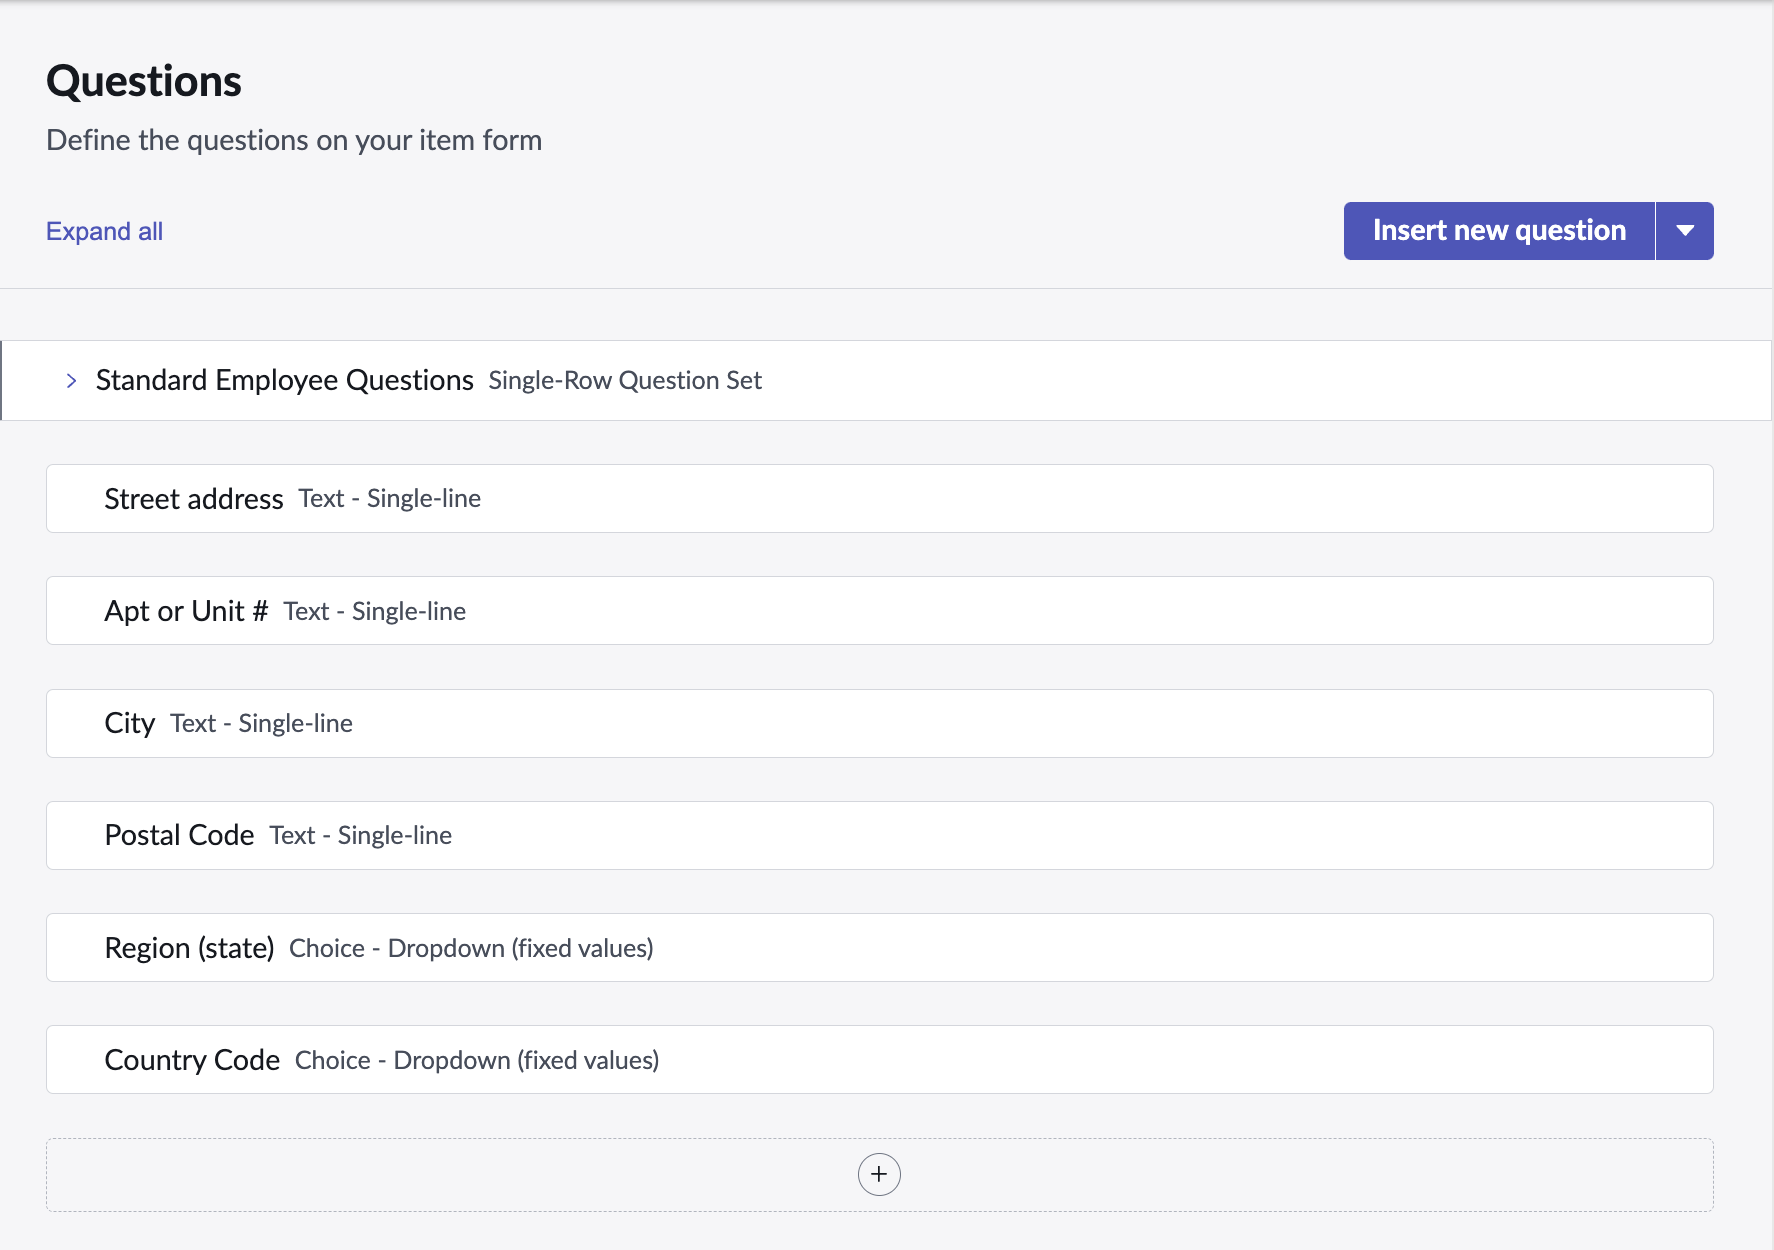
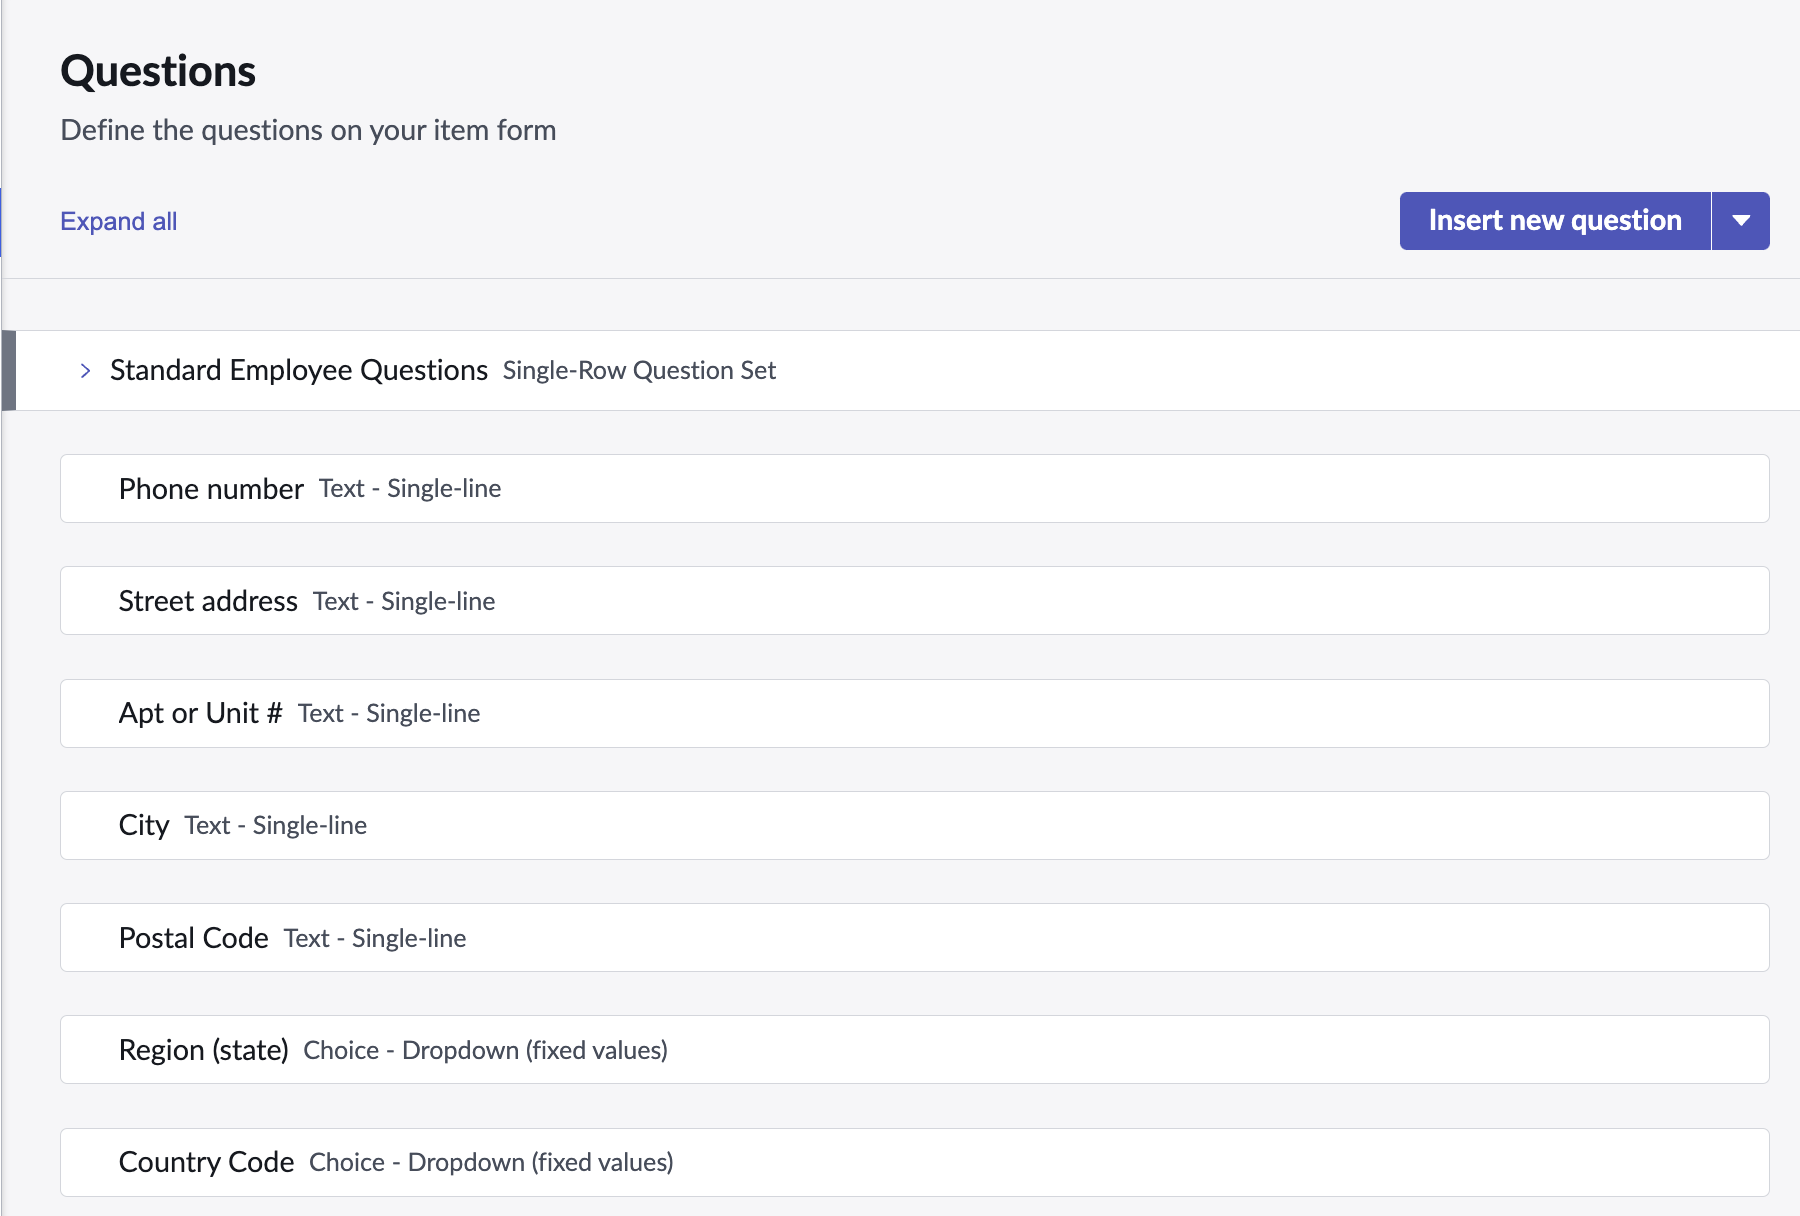
Finalized guide

diff --git a/docs/docs/flow.md b/docs/docs/flow.md
@@ -1,0 +1,201 @@
+---
+sidebar_position: 7
+---
+
+# Create a custom flow
+
+In this step we will configure a custom flow that will be triggered by the custom catalog item and use the custom action that we just developed to create a YubiKey shipment.
+
+## Flow properties
+
+On the ServiceNow home screen, search for **flow designer**. Click **Flow Designer**, a new window should open.
+
+![Configuration menu](/img/actions_1.png)
+
+Once the **Flow Designer** page opens, click the **Create new** button, then select **Flow**.
+
+![Configuration menu](/img/flow_1.png)
+
+A menu will appear to configure the action's properties. Use the following values to initialize your action.
+
+- Flow name: YubiEnterprise create shipment
+- Description: Create a new YubiKey shipment order
+- Application: YubiEnterprise Delivery App
+- Use the defaults for the remaining properties
+
+![Flow properties](/img/flow_2.png)
+
+Click **Submit**.
+
+## Add flow trigger
+
+Next, we're going to add a trigger. This will be the mechanism that will be used to trigger the flow. In our case, the trigger will be the custom catalog item that we built earlier.
+
+First, click the **+ Add a trigger** button.
+
+![Add a trigger button](/img/flow_3.png)
+
+A menu should appear to search for a trigger. Search for **service catalog** and select **Service Catalog**. This option can also be found in the **Application** category.
+
+![Service catalog trigger option](/img/flow_4.png)
+
+Once selected, press **Done**.
+
+## Add the form variables
+
+Next we will ingest the custom form values that we created when the catalog item was created.
+
+First click the **+ Add an Action, Flow Logic, or Subflow** button.
+
+Next click **Action**. When the menu appears, search for **get catalog variables**, and select **Get Catalog Variables**.
+
+![get catalog variables](/img/flow_5.png)
+
+Once the new meenu appears, drag the **Request Item Record** data pill from the **Data** table on the right into the **Submitted Request**.
+
+For the **Template** input, search for **yubikey** and select **YubiKey** (this will refer to the custom catalog item template that we previously created).
+
+Use the right facing arrow to move the following fields to the column on the right
+
+- phone_number
+- street address
+- apt_or_unit
+- city
+- postal_code
+- region_state
+- country_code
+- yubikey_model
+
+Your form variables menu should look like the example below.
+
+![final get catalog variables](/img/flow_6.png)
+
+Once ready, press **Done**.
+
+## Add the action
+
+Next we're going to make a call to the action that we configured earlier.
+
+First click the **+ Add an Action, Flow Logic, or Subflow** button.
+
+Next click **Action**. When the menu appears, search for **yubienterprise create shipment**, and select **YubiEnterprise create shipment**.
+
+![add action](/img/flow_7.png)
+
+Next we're going to map information about the user and data collected from the catalog item to the action inputs. For each input, you will add a data pill from the **Data** table on the right to the correlated action input.
+
+Use the table below to correlate the correct data pill, or hardcoded input to a label.
+
+| Label                     | Section > Data pill or default value                         |
+| ------------------------- | ------------------------------------------------------------ |
+| Delivery Type             | 1                                                            |
+| Country Code 2            | Get Catalog Variable > country_code                          |
+| Recipient                 | Trigger > Requested Item Record > Requested for > Name       |
+| Recipient Email           | Trigger > Requested Item Record > Requested for > Email      |
+| Recipient Firstname       | Trigger > Requested Item Record > Requested for > First Name |
+| Recipient Lastname        | Trigger > Requested Item Record > Requested for > Last Name  |
+| Recipient Telephone       | Get Catalog Variable > phone_number                          |
+| Street Line 1             | Get Catalog Variable > street_address                        |
+| Street Line 2             | Get Catalog Variable > apt_or_unit                           |
+| Street Line 3             |                                                              |
+| City                      | Get Catalog Variable > city                                  |
+| Region                    | Get Catalog Variable > region_state                          |
+| Postal Code               | Get Catalog Variable > postal_code                           |
+| Product ID                | Get Catalog Variable > yubikey_model                         |
+| Inventory Product ID      | [Your subscription or perpetual order ID*]                   |
+| Shipment Product Quantity | Trigger > Requested Item Record > Quantity                   |
+
+\*The inventory ID will vary based on your YubiEnterprise order. Please consult [this list](https://console.yubico.com/help/api-req.html#id5) to determine which inventory product ID is most relevant to your organization.
+
+Your action input mappings menu should look like the example below.
+
+![add action final](/img/flow_8.png)
+
+Click **Done**
+
+## Activate the flow
+
+Next we're going to activate the flow, and get our custom catalog item to trigger it when a new request is made.
+
+First, click the **Save** button at the top of the screen. Once the flow is done saving click **Activate**.
+
+![save and activate](/img/flow_9.png)
+
+Next, return to the main ServiceNow menu, and navigate back to the **Catalog Builder**.
+
+![Catalog menu item](/img/catalog_1.png)
+
+Open your **YubiKey** catalog item, either through the **Recently updated items** menu, or the **Catalog items** tab at the top of the page.
+
+![Edit item](/img/flow_10.png)
+
+A menu may appear showing information about your catalog item. Click the **Edit catalog item** button.
+
+![Edit ite menu](/img/flow_11.png)
+
+Using the navigation menu on the left, click on **Fulfillment**.
+
+Once in the **Fulfillment** tab, we're going to change the **Selected flow** value to **YubiEnterprise create shipment**.
+
+![Change fulfillment](/img/flow_12.png)
+
+Click **Save**.
+
+Once the change has been saved, click **Continue to Review and Submit**. When ready, click **Submit**.
+
+A menu indicating that the save was successful will appear. Click **Return to dashboard**, or simply return to the main **ServiceNow** menu.
+
+## Test the flow
+
+Now that we have everything configured, let's attempt to create a shipment using our catalog item.
+
+Return to the main ServiceNow menu. Once back on the home screen, search for **Service Catalog**.
+
+![Search service catalog](/img/flow_13.png)
+
+Once in the **Service Catalog** click into either **Hardware** or **Peripherals**.
+
+![Search service catagories](/img/flow_14.png)
+
+Once in either **Hardware** or **Peripherals** menu, look for the **YubiKey** option.
+
+![In category menu](/img/flow_15.png)
+
+Click into the **YubiKey** item.
+
+Once in the **YubiKey** item, populate the form with shipment information using either the table below, or your own personal/office information.
+
+| Name                    | Value                   |
+| ----------------------- | ----------------------- |
+| Who is this request for | {current user}          |
+| When do you need this?  | Today                   |
+| Quantity                | 1                       |
+| Phone Number            | 5555555555              |
+| Street address          | 5201 Great America Pkwy |
+| Apt or Unit #           | #122                    |
+| City                    | Santa Clara             |
+| Postal Code             | 95054                   |
+| Region                  | CA                      |
+| Country Code 2          | US                      |
+| Recipient               | Example Inc.            |
+| YubiKey model           | 1                       |
+
+Your form should look like the example below.
+
+![Sample order](/img/flow_16.png)
+
+Once your information is added, click **Order Now**.
+
+If you return to your YubiEnterprise Console, your new order should appear with the information that was provide in the form. If an order did not appear, then something may have gone wrong. Go into the Flow Execution history to troubleshoot.
+
+## Delete the test order
+
+:::danger
+
+After every test it is important that you delete any orders directly in the YubiEnterprise Console - See more information here - [Cancelling Your Test Orders](https://github.com/YubicoLabs/yed-spoke-example#cancelling-my-test-order)
+
+:::
+
+## Congratulations
+
+If an order successfully appeared in your YubiEnterprise Console, then you have completed this guide! You now have the necessary tools to use ServiceNow to order a YubiKey, and can extend this example to meet your specific design. user, and business requirements.

diff --git a/docs/docs/catalog.md b/docs/docs/catalog.md
@@ -72,6 +72,7 @@ We'll start with the questions related to a user's address. For each row in the 
 
 | Question type | Question subtype | Question Label |
 | ------------- | ---------------- | -------------- |
+| Text          | Single-line      | Phone number   |
 | Text          | Single-line      | Street address |
 | Text          | Single-line      | Apt or Unit #  |
 | Text          | Single-line      | City           |
@@ -160,6 +161,8 @@ Follow the steps below to add a new question:
 10. Add one choice with the name **YubiKey 5C Nano** and a value of **4**
 
 For this example we'll only include these three YubiKeys, but you can expand, or subtract, from this list based on the YubiKeys that are present in your YubiEnterprise Console.
+
+//TODO: Add reference to the PID and IPID values
 
 Your options should look like the image below.
 
